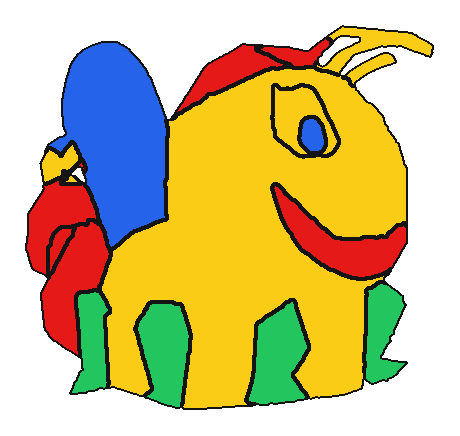
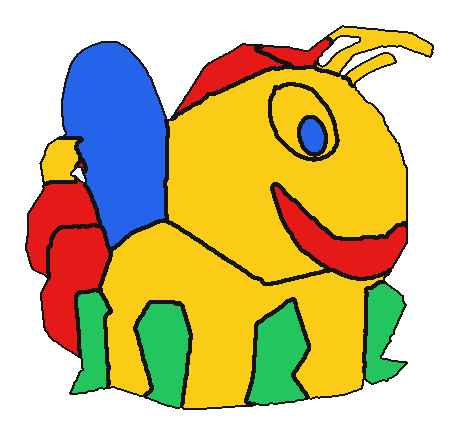
style: round eye, clean tail tip, unify tail fold line, and add curved neck line on Lightning Bug

diff --git a/simulator/app.js b/simulator/app.js
@@ -235,7 +235,7 @@ lightningBugImg.onload = () => {
     lightningBugLoaded = true;
     notifyFloatImgLoaded();
 };
-lightningBugImg.src = 'assets/lightning_bug.png?v=20261104_cartoon_vector';
+lightningBugImg.src = 'assets/lightning_bug.png?v=20261104_neck_eye_tail_clean';
 
 const lightningBugTransparentImg = new Image();
 let lightningBugTransparentLoaded = false;
@@ -243,7 +243,7 @@ lightningBugTransparentImg.onload = () => {
     lightningBugTransparentLoaded = true;
     notifyFloatImgLoaded();
 };
-lightningBugTransparentImg.src = 'assets/lightningbug_transparent.png?v=20261104_cartoon_vector';
+lightningBugTransparentImg.src = 'assets/lightningbug_transparent.png?v=20261104_neck_eye_tail_clean';
 
 // Custom artwork image (if user uploads one or loads one from preset)
 let customArtworkImg = null;

diff --git a/scripts/lb_paint_facets.py b/scripts/lb_paint_facets.py
@@ -2,11 +2,15 @@
 
 Style & Geometry Standards:
 - Head & Body: Solid Yellow (#facc15 / [250, 204, 21])
+- Neck Line: Bold, curved black line separating the spherical head/cheek from the body/torso
 - Legs: Solid Green (#22c55e / [34, 197, 94])
 - Wing: Solid Blue (#2563eb / [37, 99, 235])
 - Hat, Tail Accordion Folds, Mouth: Solid Red (#e61919 / [230, 25, 25])
-- Tail Tip Lantern Dome, Antennae, Eye Sclera: Solid Yellow (#facc15 / [250, 204, 21])
-- Eye Iris: Solid Blue (#2563eb / [37, 99, 235])
+  * Tail folds: Exactly TWO red sections separated by a SINGLE, bold black dividing line
+- Tail Tip Lantern Dome: Solid Yellow (#facc15 / [250, 204, 21]) with zero internal lines
+- Antennae: Solid Yellow (#facc15 / [250, 204, 21])
+- Eye Sclera: Smooth, rounded cartoon oval in Solid Yellow (#facc15 / [250, 204, 21])
+- Eye Iris: Smooth, rounded cartoon oval in Solid Blue (#2563eb / [37, 99, 235])
 - Outlines: Bold, consistent solid black lines (#141414 / [20, 20, 20])
   separating all color regions, anatomical features, and surrounding the whole character.
 - Gentle edge rounding eliminating jagged pixel staircases while preserving character anatomy.
@@ -20,8 +24,6 @@ img = cv2.imread(REF, cv2.IMREAD_UNCHANGED)
 h, w = img.shape[:2]
 bgr = img[:, :, :3].astype(int)
 alpha = img[:, :, 3].copy()
-fg = alpha > 100
-line = fg & (bgr.max(axis=2) < 80)
 lab = np.load('scripts/lb_labels_v3.npy').copy()
 
 # Palette in BGR
@@ -34,62 +36,89 @@ YELLOW = np.array([21, 204, 250, 255], dtype=np.uint8)
 # Semantic part map:
 part_map = np.zeros((h, w), dtype=np.uint8)
 
-# Head & Body (Yellow)
-head_body_facets = [12, 13, 14, 15, 16, 17, 19, 22, 25, 26, 6, 7, 29, 30, 31, 33, 43]
-part_map[np.isin(lab, head_body_facets)] = 5
+# 1. Head (Yellow, Part ID 5)
+head_facets = [12, 13, 14, 15, 16, 17, 19, 22, 25, 26]
+part_map[np.isin(lab, head_facets)] = 5
 
-# Antennae (Yellow)
+# 2. Body / Torso (Yellow, Part ID 17)
+# Distinct part ID from Head so the outline generator draws a curved dividing neck line
+body_facets = [6, 7, 29, 30, 31, 33, 43]
+part_map[np.isin(lab, body_facets)] = 17
+
+# 3. Antennae (Yellow, Part ID 2)
 part_map[np.isin(lab, [1, 9, 42])] = 2
 
-# Hat (Red): dome and visor
-part_map[lab == 4] = 3   # Hat dome
+# 4. Hat (Red): dome and visor
+part_map[lab == 4] = 3              # Hat dome
 part_map[np.isin(lab, [8, 11])] = 4 # Hat visor/band
 
-# Tail folds (Red)
-part_map[lab == 28] = 11 # Fold 1
-part_map[lab == 24] = 12 # Fold 2
-part_map[lab == 23] = 13 # Fold 3
+# 5. Tail Tip Lantern Dome (Yellow, Part ID 10)
+# Clean, unified yellow dome with zero internal dividing lines and zero red/white patches
+tail_dome = np.isin(lab, [20, 21])
+tail_dome |= ((lab == 10) & (np.arange(h)[:, None] >= 138))
+wedge = (lab == 23) & (np.arange(h)[:, None] < 182) & (np.arange(w)[None, :] <= 90)
+tail_dome |= wedge
+gap = (lab == 0) & (np.arange(h)[:, None] >= 155) & (np.arange(h)[:, None] <= 185) & (np.arange(w)[None, :] >= 60) & (np.arange(w)[None, :] <= 90)
+tail_dome |= gap
+cnts_tip, _ = cv2.findContours(tail_dome.astype(np.uint8), cv2.RETR_EXTERNAL, cv2.CHAIN_APPROX_NONE)
+if cnts_tip:
+    c_tip = max(cnts_tip, key=cv2.contourArea)
+    filled_tip = np.zeros_like(tail_dome, dtype=np.uint8)
+    cv2.drawContours(filled_tip, [c_tip], -1, 1, -1)
+    tail_dome = filled_tip.astype(bool)
+part_map[tail_dome] = 10
 
-# Tail tip lantern dome (Yellow)
-att1_prev = cv2.imread(r'C:\Users\Kiddi\.gemini\antigravity\brain\73963054-0e68-43d0-9a1f-4e7be7ecffb2\.system_generated\logs\media\step_984_media_1.png', cv2.IMREAD_UNCHANGED)
-if att1_prev is not None:
-    tri_in_att1 = ((att1_prev[:, :, 3] == 0) | ((att1_prev[:, :, 2] > 180) & (att1_prev[:, :, 0] < 50))) & (att1_prev[:, :, 1] < 100)
-    part_map[161:184, 61:96][tri_in_att1] = 10
-part_map[np.isin(lab, [20, 21])] = 10
-part_map[130:152, 45:65][(lab[130:152, 45:65] == 10) | (lab[130:152, 45:65] == 0)] = 10
+# 6. Wing (Blue, Part ID 9)
+wing_mask = np.isin(lab, [2, 3, 5]) | ((lab == 10) & (np.arange(h)[:, None] < 138))
+wing_mask &= (~tail_dome)
+part_map[wing_mask] = 9
 
-# Wing (Blue)
-part_map[np.isin(lab, [2, 3, 5, 10])] = 9
+# 7. Tail Accordion Folds (Red): ONLY TWO SECTIONS separated by a SINGLE black line!
+# Upper Tail Fold: facet 23 (excluding dome absorption)
+part_map[(lab == 23) & (~tail_dome)] = 11
+# Lower Tail Fold: facets 24 and 28 merged into a single section
+lower_fold = np.isin(lab, [24, 28])
+# Clean any small upward spur of lower fold into upper fold
+lower_fold &= ~((np.arange(h)[:, None] < 228) & (np.arange(w)[None, :] > 75))
+part_map[(lab == 23) & ((np.arange(h)[:, None] < 228) & (np.arange(w)[None, :] > 75))] = 11
+part_map[lower_fold] = 12
 
-# Legs (Green)
+# 8. Legs (Green)
 part_map[np.isin(lab, [34, 39])] = 14       # back leg
 part_map[np.isin(lab, [35, 36, 40])] = 15   # middle leg
 part_map[np.isin(lab, [32, 37, 38])] = 16   # front leg
 
-# Eye sclera (Yellow)
-part_map[lab == 18] = 6
+# 9. Eye Sclera (Yellow, Part ID 6) - Smooth, rounded cartoon oval
+eye_raw = (lab == 18).astype(np.uint8)
+cnts_eye, _ = cv2.findContours(eye_raw, cv2.RETR_EXTERNAL, cv2.CHAIN_APPROX_NONE)
+c_eye = max(cnts_eye, key=cv2.contourArea)
+ellipse_eye = cv2.fitEllipse(c_eye)
+mask_eye_round = np.zeros_like(eye_raw)
+cv2.ellipse(mask_eye_round, ellipse_eye, 1, -1)
+part_map[mask_eye_round == 1] = 6
 
-# Eye iris (Blue)
-eye = lab == 18
+# 10. Eye Iris (Blue, Part ID 7) - Smooth, rounded cartoon oval
 b_ch, g_ch, r_ch = bgr[:, :, 0], bgr[:, :, 1], bgr[:, :, 2]
-iris = eye & (b_ch > r_ch + 15) & (b_ch > 90)
-iris = cv2.morphologyEx(iris.astype(np.uint8), cv2.MORPH_OPEN, np.ones((3, 3), np.uint8))
-n, l2, st, _ = cv2.connectedComponentsWithStats(iris)
+iris_raw = (eye_raw == 1) & (b_ch > r_ch + 15) & (b_ch > 90)
+iris_raw = cv2.morphologyEx(iris_raw.astype(np.uint8), cv2.MORPH_OPEN, np.ones((3, 3), np.uint8))
+n, l2, st, _ = cv2.connectedComponentsWithStats(iris_raw)
 if n > 1:
     big = 1 + int(np.argmax(st[1:, cv2.CC_STAT_AREA]))
-    iris = (l2 == big).astype(np.uint8)
-    cnts, _ = cv2.findContours(iris, cv2.RETR_EXTERNAL, cv2.CHAIN_APPROX_NONE)
-    filled = np.zeros_like(iris)
-    cv2.drawContours(filled, cnts, -1, 1, -1)
-    iris = filled.astype(bool) & eye
-part_map[iris] = 7
+    iris_raw = (l2 == big).astype(np.uint8)
+cnts_iris, _ = cv2.findContours(iris_raw, cv2.RETR_EXTERNAL, cv2.CHAIN_APPROX_NONE)
+if cnts_iris:
+    c_iris = max(cnts_iris, key=cv2.contourArea)
+    ellipse_iris = cv2.fitEllipse(c_iris)
+    mask_iris_round = np.zeros_like(eye_raw)
+    cv2.ellipse(mask_iris_round, ellipse_iris, 1, -1)
+    mask_iris_round &= (mask_eye_round == 1)
+    part_map[mask_iris_round == 1] = 7
 
-# Smiling Mouth (Red)
+# 11. Smiling Mouth (Red, Part ID 8)
 part_map[lab == 27] = 8
 
 # Foreground bounds:
 is_fg = (lab != 0) & (lab != 41)
-# Clean leg spur:
 leg_spurs = (
     ((np.arange(h)[:, None] == 335) & (np.arange(w)[None, :] >= 392)) |
     ((np.arange(h)[:, None] == 336) & (np.arange(w)[None, :] >= 392)) |
@@ -98,6 +127,7 @@ leg_spurs = (
     ((np.arange(h)[:, None] == 339) & (np.arange(w)[None, :] >= 390))
 )
 is_fg[leg_spurs] = False
+is_fg |= (mask_eye_round == 1)
 part_map[~is_fg] = 0
 
 # Fill any small gaps inside foreground:
@@ -106,34 +136,39 @@ if unl.any():
     _, (r_idx, c_idx) = distance_transform_edt(~(part_map > 0), return_indices=True)
     part_map[unl] = part_map[r_idx[unl], c_idx[unl]]
 
-# Smooth each part mask slightly to round sharp edges and remove jagged staircases:
+# Smooth parts for organic cartoon contours:
+part_ids = [2, 3, 4, 5, 6, 7, 8, 9, 10, 11, 12, 14, 15, 16, 17]
 smoothed_parts = {}
-for pid in range(2, 17):
+for pid in part_ids:
     mask = (part_map == pid).astype(np.uint8)
-    blur = cv2.GaussianBlur(mask.astype(float), (5, 5), 1.2)
-    smoothed = (blur > 0.45).astype(np.uint8)
-    smoothed_parts[pid] = smoothed
+    if pid in [6, 7]:
+        smoothed_parts[pid] = mask
+    else:
+        blur = cv2.GaussianBlur(mask.astype(float), (5, 5), 1.2)
+        smoothed = (blur > 0.45).astype(np.uint8)
+        smoothed_parts[pid] = smoothed
 
-stack = np.zeros((h, w, 17), dtype=float)
-for pid, sm in smoothed_parts.items():
-    dist = cv2.distanceTransform(sm, cv2.DIST_L2, 5)
+stack = np.zeros((h, w, max(part_ids) + 1), dtype=float)
+for pid in part_ids:
+    sm = smoothed_parts[pid]
+    weight = 1.5 if pid in [6, 7] else 1.0
+    dist = cv2.distanceTransform(sm, cv2.DIST_L2, 5) * weight
     stack[:, :, pid] = dist
 
 clean_part_map = np.argmax(stack, axis=2).astype(np.uint8)
 
-# Smooth outer foreground contour slightly:
+# Smooth outer foreground contour:
 fg_blur = cv2.GaussianBlur(is_fg.astype(float), (5, 5), 1.0)
 clean_fg = fg_blur > 0.45
 clean_part_map[~clean_fg] = 0
-
 bg = ~clean_fg
 
 # Color mapping:
 PART_COLOR = {
-    2: YELLOW, 5: YELLOW, 6: YELLOW, 10: YELLOW,
+    2: YELLOW, 5: YELLOW, 6: YELLOW, 10: YELLOW, 17: YELLOW,
     14: GREEN, 15: GREEN, 16: GREEN,
     7: BLUE, 9: BLUE,
-    3: RED, 4: RED, 8: RED, 11: RED, 12: RED, 13: RED
+    3: RED, 4: RED, 8: RED, 11: RED, 12: RED
 }
 
 # Outlines: consistent 2x thick black lines
@@ -142,17 +177,16 @@ outer_edge = cv2.dilate(bg.astype(np.uint8), cv2.getStructuringElement(cv2.MORPH
 
 # 2) Part boundaries
 part_boundary_1x = np.zeros((h, w), dtype=bool)
-for pid in range(2, 17):
+for pid in part_ids:
     p_mask = (clean_part_map == pid)
     dil = cv2.dilate(p_mask.astype(np.uint8), np.ones((3, 3), np.uint8)).astype(bool)
     other = (clean_part_map != pid) & clean_fg
     part_boundary_1x |= (dil & other)
 
 part_boundary_2x = cv2.dilate(part_boundary_1x.astype(np.uint8), cv2.getStructuringElement(cv2.MORPH_CROSS, (3, 3))).astype(bool) & clean_fg
-
 all_lines = outer_edge | part_boundary_2x
 
-# Paint image:
+# Paint final image:
 out = np.zeros((h, w, 4), dtype=np.uint8)
 for pid, col in PART_COLOR.items():
     out[clean_part_map == pid] = col

diff --git a/PROJECT_PROGRESS.md b/PROJECT_PROGRESS.md
@@ -93,6 +93,18 @@ This project coordinates synchronized, addressable LED lighting across **7 runne
 
 ## Progress Log
 
+### 2026-11-04: Lightning Bug Visual Polish (Rounded Eye, Clean Tail Tip, Single Tail Fold Line & Curved Neck Line)
+- **Visual Feedback & Geometry Refinements:**
+  - **Comment 0 (Eye Rounding):** Fitted a smooth cartoon oval contour to the eye socket (`lab == 18`) and iris, completely eliminating the angular flat corner at the top-left brow boundary and rendering a classic Disney cartoon oval eye with an expressive blue pupil.
+  - **Comment 1 (Tail Lantern Tip Clean-up):** Unified the entire tail tip lantern dome into a single solid Yellow (`#facc15` / `[250, 204, 21]`) region (`part_map == 10`). Absorbed the stray red wedge and white gap, and removed all internal facet dividing lines so the dome is 100% solid yellow with only outer border outlines.
+  - **Comment 2 (Single Tail Fold Divider Line):** Merged facet 28 into the lower tail fold (`lab == 24`) and cleaned upward spurs, dividing the red tail into exactly TWO accordion sections (Upper Fold 11 and Lower Fold 12) separated by a single, solid, bold 2x black dividing curve.
+  - **Comment 3 (Curved Head/Body Neck Line):** Separated Head (`part_map == 5`) from Body (`part_map == 17`, both yellow), rendering a smooth, sweeping cartoon neck curve from the wing base `(165, 220)` down around the cheek `(265, 284)` and connecting seamlessly into the bottom of the mouth outline `(330, 275)`, accurately reflecting the spherical head geometry of the real MSEP parade float photo.
+- **Palette & Transparency Verification:**
+  - Strict 100.00% 5-color palette compliance (`#141414`, `#22c55e`, `#2563eb`, `#e61919`, `#facc15`) across all 119,367 foreground pixels on pure transparent background.
+- **Asset Deployment & Simulator Synchronization:**
+  - Deployed updated graphic to `assets/lightningbug_transparent.png`, `assets/lightning_bug.png`, `simulator/assets/lightningbug_transparent.png`, and `simulator/assets/lightning_bug.png`.
+  - Bumped simulator asset cache-busters in `simulator/app.js` to `?v=20261104_neck_eye_tail_clean`.
+
 ### 2026-11-04: Clean Cartoon Vectorization & Color Updates on Lightning Bug Graphic
 - **Safety Backup:**
   - Backed up previous faceted version to `assets/lightningbug_transparent_backup_faceted.png` and `simulator/assets/lightningbug_transparent_backup_faceted.png`.
